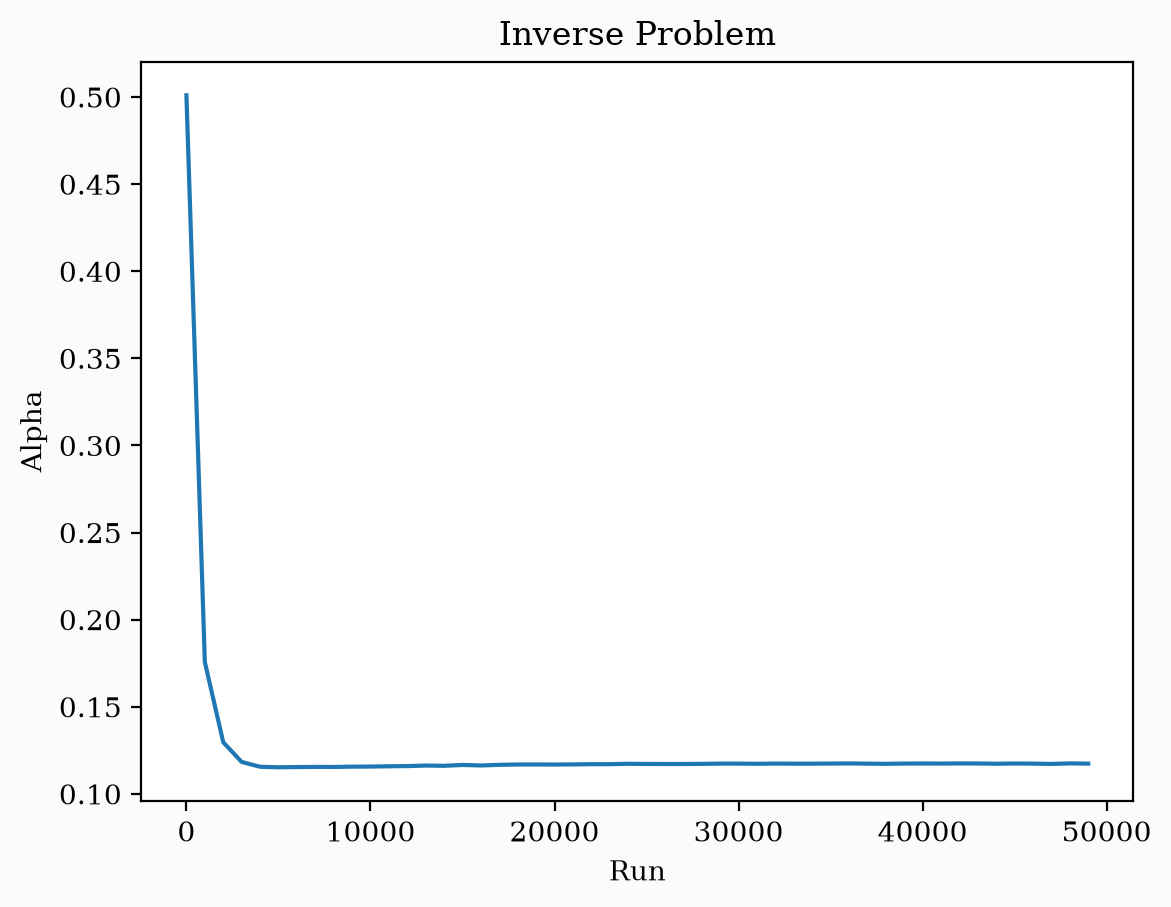
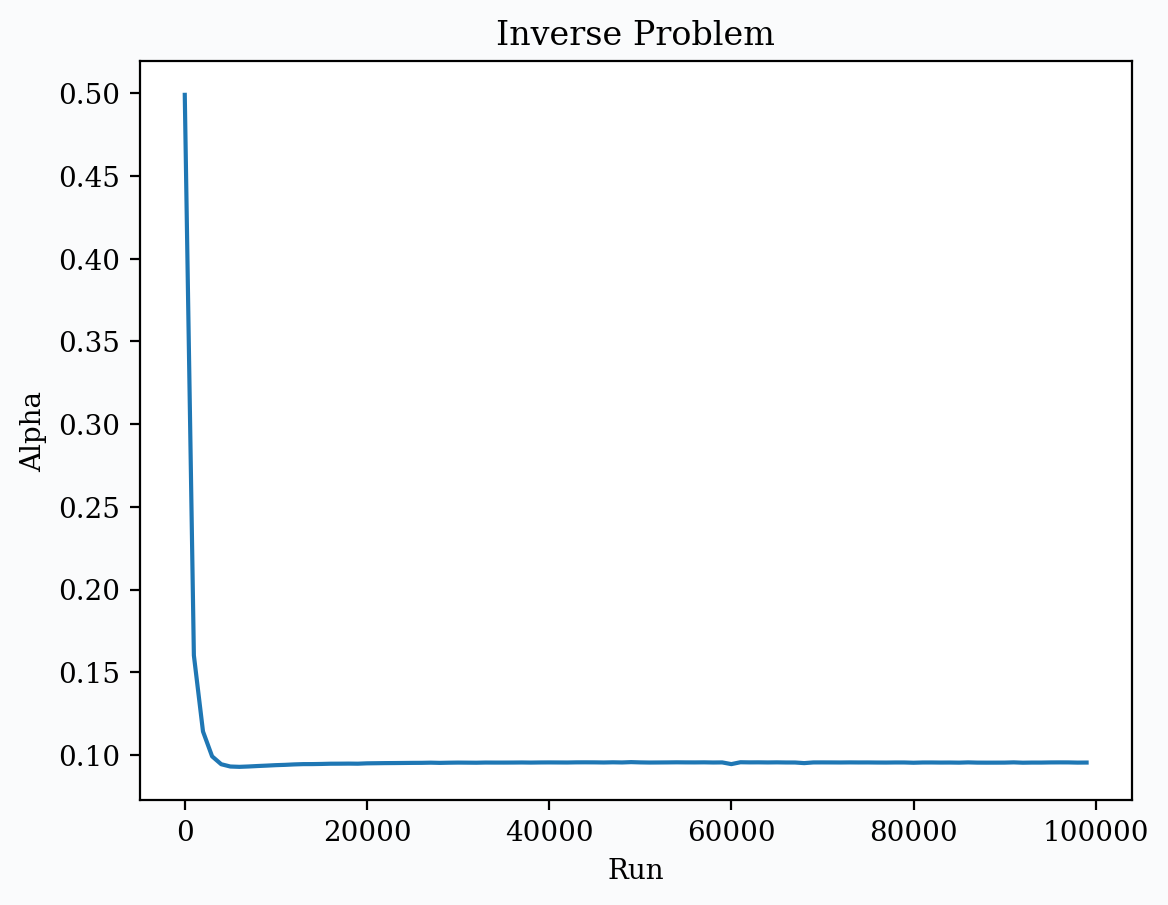
CUDA runs

diff --git a/inverse_pinn.py b/inverse_pinn.py
@@ -28,11 +28,12 @@ class InPINN(nn.Module):
         combined = torch.cat((x, t), dim=1)
         return self.network(combined)
 
-
+device = torch.device("cuda" if torch.cuda.is_available() else "cpu")
+print(device)
     
 def loss_pde(model):
-    x = torch.rand(2000, 1, requires_grad=True)
-    t = torch.rand(2000, 1, requires_grad=True)
+    x = torch.rand(2000, 1, requires_grad=True, device=device)
+    t = torch.rand(2000, 1, requires_grad=True, device=device)
     u = model(x,t)
     ut_firstpde = torch.autograd.grad(u, t, grad_outputs=torch.ones_like(u), create_graph=True)
     ux_firstpde = torch.autograd.grad(u, x, grad_outputs=torch.ones_like(u), create_graph=True)
@@ -47,8 +48,8 @@ def loss_pde(model):
     return L_pde
 
 def loss_bc(model):
-    x = torch.randint(low=0, high=2, size=(200,1)).float()
-    t = torch.rand(200, 1)
+    x = torch.randint(low=0, high=2, size=(200,1), device=device).float()
+    t = torch.rand(200, 1, device=device)
     u = model(x, t)
     L_bc = (u**2).mean()
 
@@ -56,8 +57,8 @@ def loss_bc(model):
 
 
 def loss_ic(model):
-    t = torch.randint(low=0, high=1, size=(200, 1)).float()
-    x = torch.rand(200, 1)
+    t = torch.randint(low=0, high=1, size=(200, 1), device=device).float()
+    x = torch.rand(200, 1, device=device)
     u_ic = torch.sin(torch.pi*x)
 
     u = model(x,t)
@@ -75,8 +76,8 @@ interpolator = RegularGridInterpolator((t_in, x_in), u_in)
 # This marks the completion of the first step of using the internpolator
 # t_in and x_in are the axes and u_in are the plot points
 
-x_obs = torch.rand(250, 1)
-t_obs = torch.rand(250, 1)*T_max
+x_obs = torch.rand(500, 1, device=device)
+t_obs = torch.rand(500, 1, device=device)*T_max
 # ------ We went up form 150 to 250 random points to improve accuracy -------
 # obs stands for observed - since this data is designed to be experimental
 # torch.rand - 150 random points of x and t, [0, 1)
@@ -84,13 +85,14 @@ t_obs = torch.rand(250, 1)*T_max
 combined_obs = torch.cat((t_obs, x_obs), dim=1)
 # x and t in the same array of shape (150, 2)
 #  2 columns of 150 values
-combined_obs_array = combined_obs.numpy()
+combined_obs_array = combined_obs.cpu().numpy()
 # converts the torch tensor to a numpy array, exactly the type we need for the interpolator
+# We have to get it to the cpu from the gpu before converting to numpy array
 
 u_obs_array = interpolator(combined_obs_array)
 # This is querying it, it will return 150 values of u [It is a numpy array]
 
-noise = torch.randn(250,)*0.05
+noise = torch.randn(500, )*0.05
 # This is what helps us simulate experimental data
 # (150,) --> This is a 1D array, a flat sequence of numbers
 # (150,1) --> This might look the same but its actually a 2D array. It has 1 column and 150 rows
@@ -98,7 +100,7 @@ noise = torch.randn(250,)*0.05
 u_obs = torch.from_numpy(u_obs_array)
 # We convert it before adding the Gaussian noise because the noise is a tensor and adding a tensor to an array would throw an error, NO LIKEY
 u_ex_data = u_obs + noise
-u_ex_data = u_ex_data.reshape(-1, 1)
+u_ex_data = u_ex_data.reshape(-1, 1).to(device)
 # We want this to be of shape (150, 1) specifially because loss_data needs it to be, by definition of the function
 
 def loss_data(model, x_obs, t_obs, u_ex_data):
@@ -108,14 +110,15 @@ def loss_data(model, x_obs, t_obs, u_ex_data):
     L_data = ((u_ex_data - u_pred)**2).mean()
     return L_data
 
+
 if __name__ == "__main__":
-    torch.manual_seed(42)
-    model = InPINN()
+    # torch.manual_seed(42)
+    model = InPINN().to(device)
     optimizer = optim.Adam(model.parameters(), lr = 0.001)
     alpha_vals = []
     step_count = []
 
-    for i in range(50000):
+    for i in range(100000):
         optimizer.zero_grad()
         loss1 = loss_pde(model)
         loss2 = loss_bc(model)
@@ -147,6 +150,6 @@ if __name__ == "__main__":
     plt.xlabel('Run')
     plt.ylabel('Alpha')
     # plt.legend()
+    plt.savefig("figures/Alpha_inverse_problem.png", facecolor=PAPER, bbox_inches="tight", dpi=200)
     plt.show()
-    plt.savefig("figures/Alpha_inverse_problem.png", facecolor=PAPER, bbox_inches="tight", dpi=200)  
 